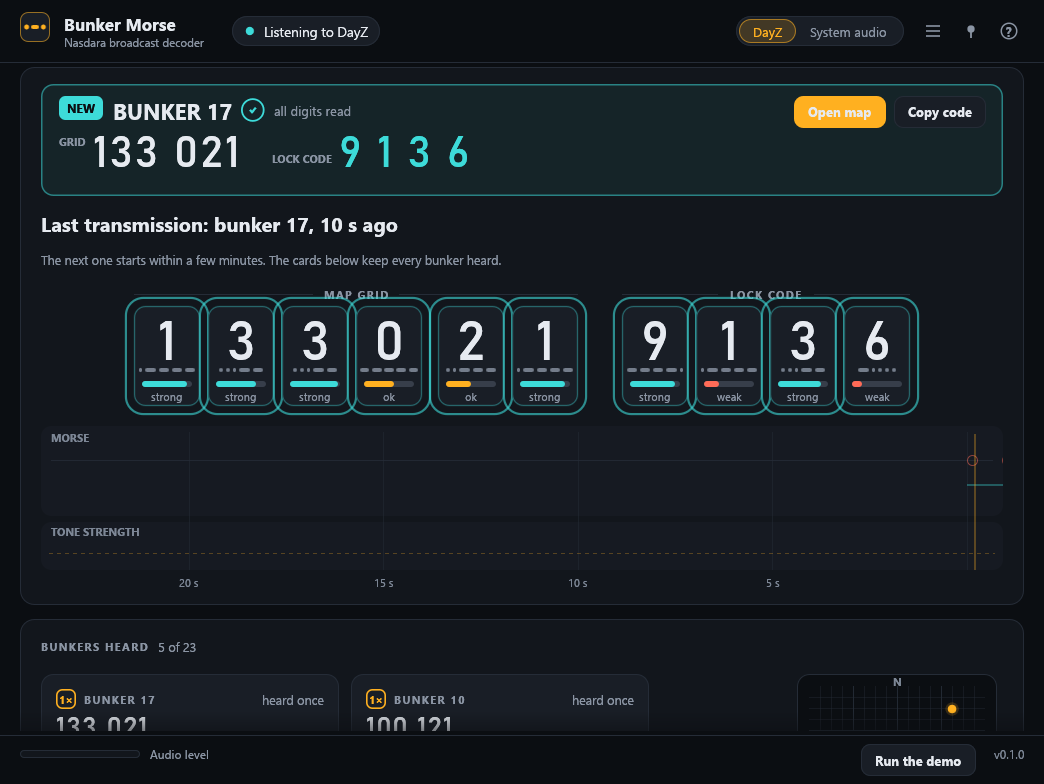
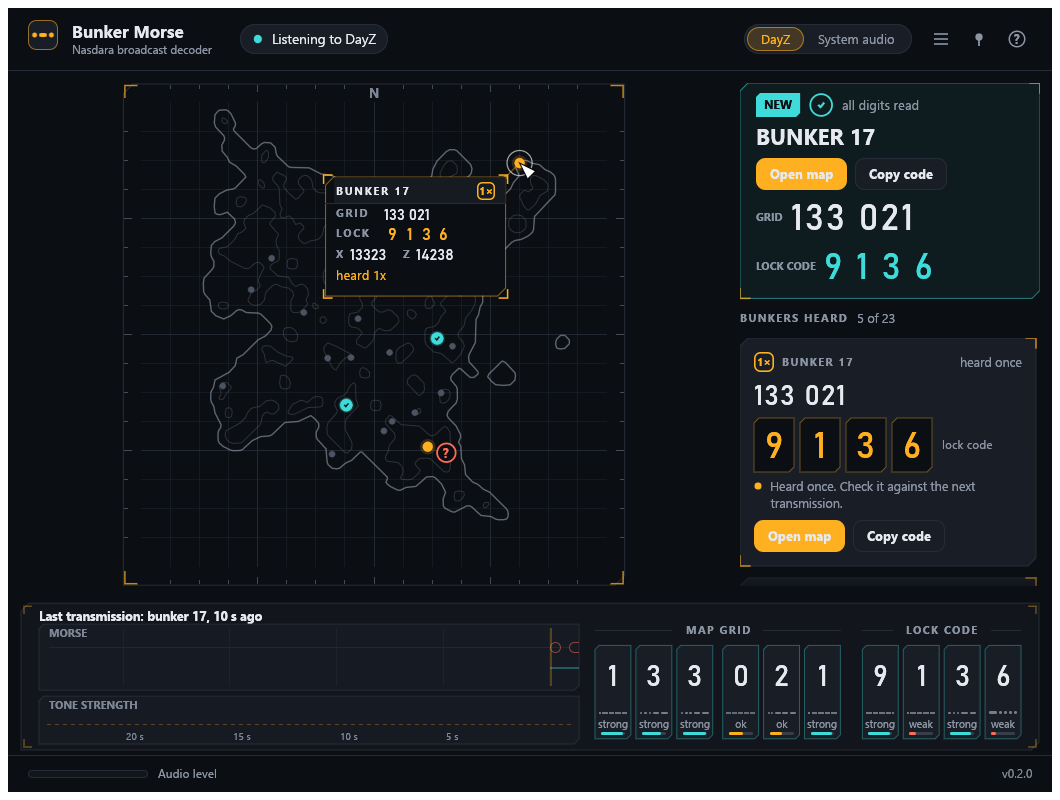
Prepare 0.2.0: version, changelog and screenshots of the new layout

diff --git a/CHANGELOG.md b/CHANGELOG.md
@@ -1,5 +1,19 @@
 # Changelog
 
+## 0.2.0 (2026-10-23)
+
+A new window layout and a round of finer details.
+
+- The map is the centrepiece: the result strip and the bunkers list sit in a column beside it, and the Morse ribbon, tone trace and the ten digit slots in a bar along the bottom (about a fifth of the window height). Narrow windows keep the list in a drawer and drop the trace.
+- Hover a bunker on the map for a card with its lock code, map grid, game coordinates and how often it was heard. Bunkers never heard say so. Pins can be focused with the keyboard and are labelled for screen readers.
+- Chamfered HUD frames with corner brackets on the cards, the result strip and the map.
+- Digits and labels are centred on the glyph in every box (the fonts' metrics are corrected), and the interface eases in and out instead of switching. The reduce-motion setting still turns all of it off.
+- Morse cheat sheet: the ten digits as dots and dashes, a tap plays a pattern, and while a message arrives the digits that fit what was heard so far light up. It can be hidden in the menu.
+- Test mode (options menu, or `--demo`) plays synthetic beeps on repeat, so the window can be tried without the game. It is the default off Windows.
+- The minimap outlines the island.
+- The options in the menu are switches.
+- The idle window repaints at 30 frames a second while listening, so the signal strip no longer stutters when a message starts.
+
 ## 0.1.0 (2026-10-23)
 
 First release.
@@ -9,8 +23,6 @@ First release.
 - Lock codes are voted digit by digit over every repeat of a bunker's message.
 - Opens the bunker's position on iZurvive.
 - Falls back to listening to all system audio for PCs where Windows does not hand DayZ's sound to the app.
-- Morse cheat sheet under the bunkers: the ten digits as dots and dashes, a tap plays a pattern, and while a message arrives the digits that fit what was heard so far light up. It can be hidden in the menu.
-- Test mode (options menu, or `--demo`) plays synthetic beeps on repeat, so the window can be tried without the game. It is the default off Windows.
 - Pin button keeps the window above the game (borderless windowed mode).
 - Flashes the taskbar button when a bunker has been read (option, on by default).
 - Runs at below-normal process priority so the game keeps the CPU.

diff --git a/README.md b/README.md
@@ -9,7 +9,7 @@ by ear hard.
 
 ![The window while a message is arriving](docs/images/receiving.png)
 
-*The first screenshot is the demo, which plays synthetic beeps. The second is a rendered test scene of a finished message. No game audio is used or included in this repository.*
+*The first screenshot is test mode, which plays synthetic beeps. The second is a rendered test scene of a finished message with the hover card of one bunker open. No game audio is used or included in this repository.*
 
 Unofficial fan project, not affiliated with Bohemia Interactive.
 
